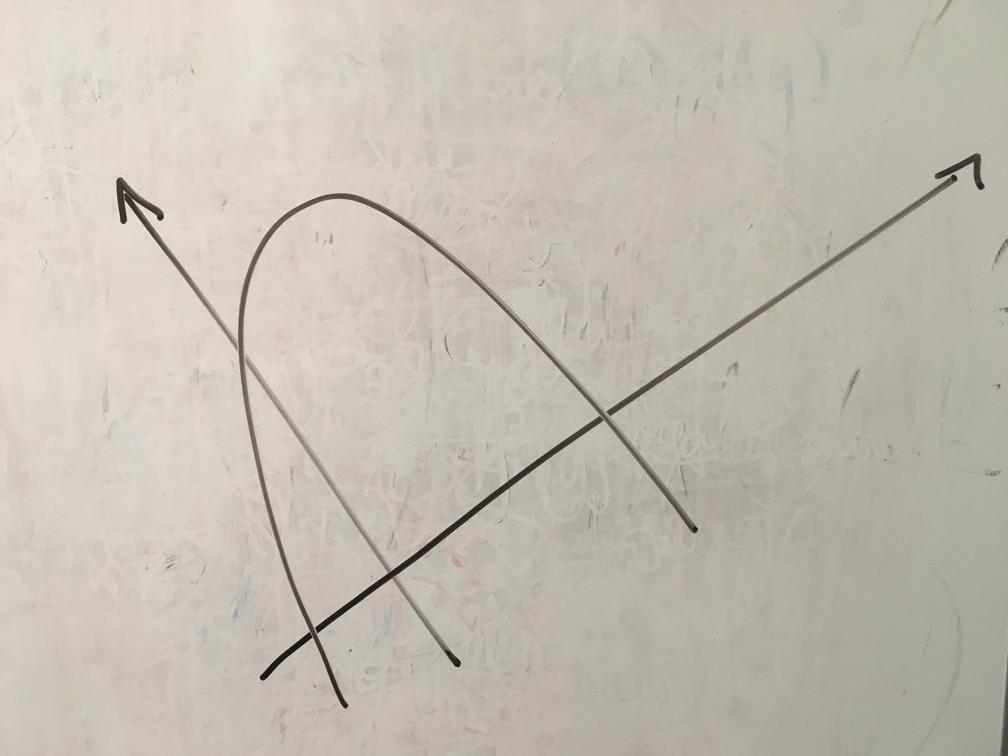
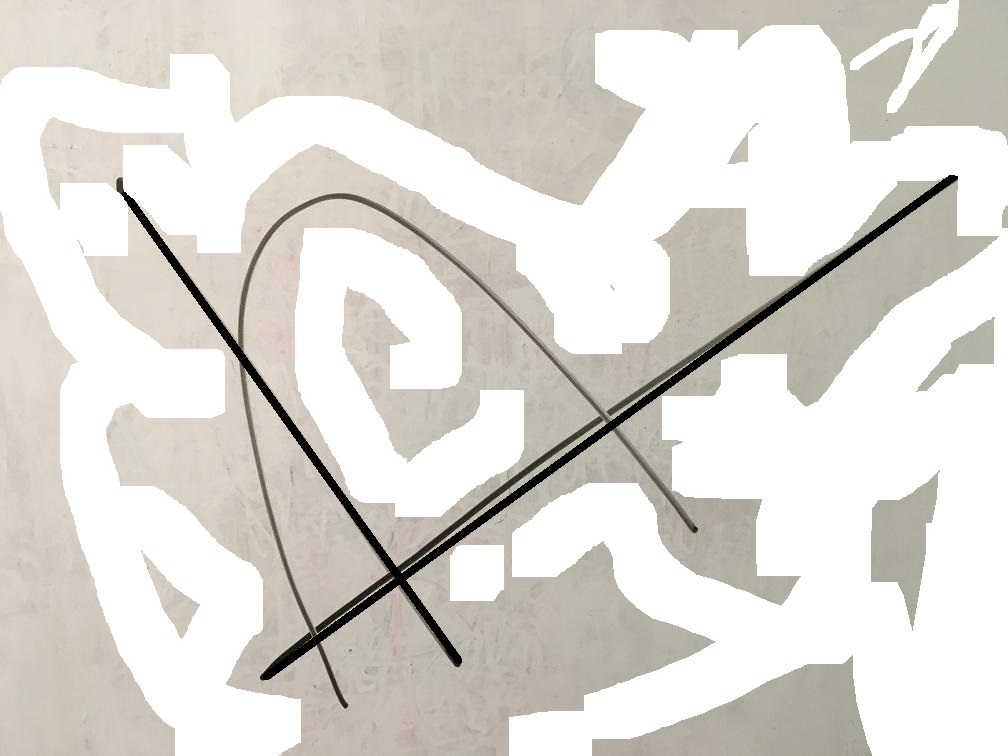
k-aralho

diff --git a/main.py b/main.py
@@ -9,11 +9,64 @@
 import cv2   # biblioteca opencv utilizada para funções de imagem
 import numpy as np  # biblioteca numpy para funções matemáticas, como a SDV
 from include.parabola import Parabola
-import os
+import random
 
 
 def draw_square_at(img, pos, color):
     img[int(pos[1]) - 3:int(pos[1]) + 3, int(pos[0]) - 3:int(pos[0]) + 3] = color
+
+
+def color_dist(v1, v2):
+    return (v1 - v2)**2
+
+
+def kmeans(img):
+    c1, c2 = 0, 255
+    prev_c1 = prev_c2 = -7
+    g1 = []
+    g2 = []
+    g3 = []
+    c3 = 150
+    while c1 != prev_c1 and c2 != prev_c2:
+        g1 = []
+        sum1 = 0
+        count1 = 0
+        g2 = []
+        g3 = []
+        sum2 = 0
+        count2 = 0
+        sum3 = 0
+        count3 = 0
+
+        for i in range(img.shape[0]):
+            for j in range(img.shape[1]):
+                val = img[i, j]
+                dists = [color_dist(val, c) for c in [c1, c2, c3]]
+                if dists[0] < dists[1] and dists[0] < dists[2]:
+                    g1.append((i, j))
+                    sum1 += val
+                    count1 += 1
+                elif dists[1] < dists[0] and dists[1] < dists[2]:
+                    g2.append((i, j))
+                    sum2 += val
+                    count2 += 1
+                else:
+                    g3.append((i, j))
+                    sum3 += val
+                    count3 += 1
+
+        prev_c1 = c1
+        prev_c2 = c2
+        c1 = sum1 / count1
+        c2 = sum2 / count2
+        c3 = sum3 / count3
+
+        print(c1, c2)
+
+    if c1 < c2:
+        return g1, g2, g3
+    else:
+        return g2, g1, g3
 
 
 def intersec(p1, p2, p3, p4):
@@ -45,17 +98,29 @@ def find_endpoints(t):
     return (x1, y1), (x2, y2)
 
 
-def main():
+def main(threshold, nvotes):
     # carregamos a imagem, dimensionamos uma janela para exibí-la
     img = cv2.imread('exemplo1 - Copy.jpg')
     size = (img.shape[1], img.shape[0])
 
-    nvotes = 350
-    threshold = 120
     ekernel_size = (3, 3)
 
     #converte imagem bgr pra grey scale
     grey_img = cv2.cvtColor(img, cv2.COLOR_BGR2GRAY)
+    grey_imgk = cv2.cvtColor(img, cv2.COLOR_BGR2GRAY)
+
+    b, p, r = kmeans(grey_img)
+
+    for p in p:
+        grey_imgk[p] = 0
+    for p in r:
+        grey_imgk[p] = 0
+    for p in b:
+        grey_imgk[p] = 255
+
+    cv2.namedWindow('k means', cv2.WINDOW_NORMAL)
+    cv2.resizeWindow('k means', size[0], size[1])
+    cv2.imshow('k means', grey_imgk)
 
     '''hist = [0 for i in range(255)]
     avg = 0
@@ -73,28 +138,14 @@ def main():
             else:
                 grey_img[j, i] = 0
 
-    cv2.namedWindow('sdsds image', cv2.WINDOW_NORMAL)
-    cv2.resizeWindow('sdsds image', size[0], size[1])
-    cv2.imshow('sdsds image', grey_img)
 
-
-    #tentar fazer uma erosão
-    kernel = np.ones(ekernel_size, np.uint8)
-    grey_img = cv2.erode(grey_img, kernel, iterations=1)
-
-    cv2.namedWindow('sdsds a', cv2.WINDOW_NORMAL)
-    cv2.resizeWindow('sdsds a', size[0], size[1])
-    cv2.imshow('sdsds a', grey_img)
-
-
-
-    #  hough aqui
-    '''lines = cv2.HoughLinesP(grey_img, 1, np.pi/180, 200)
-    for line in lines:
-        x1, y1, x2, y2 = line[0]
-        cv2.line(img, (x1, y1), (x2, y2), (0, 0, 255), 3)'''
+    cv2.namedWindow('thresholding', cv2.WINDOW_NORMAL)
+    cv2.resizeWindow('thresholding', size[0], size[1])
+    cv2.imshow('thresholding', grey_img)
 
     lines = cv2.HoughLines(grey_img, 1, np.pi/180, nvotes)
+
+    return
 
     for line in lines:
         x1, x2 = find_endpoints(line[0])
@@ -109,7 +160,6 @@ def main():
     t2 = lines[0][0][1]
 
     theta_diff = np.abs(t2 - np.pi/2)
-    print('Teta diffffff: ', np.degrees(theta_diff))
 
     sub = np.subtract(x2, x1)
 
@@ -119,53 +169,26 @@ def main():
 
     v2 = [v1[1], -v1[0]]
 
-    print("NORMA DO V2 AQUI OIE", np.linalg.norm(v2))
-
-
     new_x3 = np.add(inter, [v2[0]*-10000, v2[1]*-10000])
     new_x3 = tuple([int(i) for i in new_x3])
     new_x4 = np.add(inter, [v2[0]* 10000, v2[1]* 10000])
     new_x4 = tuple([int(i) for i in new_x4])
 
-
     cv2.line(img, x1, x2, (0, 0, 255), 3)
     cv2.line(img, new_x3, new_x4, (255, 0, 255), 3)
-    cv2.line(grey_img, x1, x2, (0, 0, 0), 40)
-    cv2.line(grey_img, x3, x4, (0, 0, 0), 40)
+    cv2.line(grey_img, x1, x2, (0, 0, 0), 50)
+    cv2.line(grey_img, x3, x4, (0, 0, 0), 50)
 
     draw_square_at(img, inter, [255, 0, 0])
 
+    # tentar fazer uma erosão
+    kernel = np.ones(ekernel_size, np.uint8)
+    grey_img = cv2.erode(grey_img, kernel, iterations=1)
 
     points = [np.array((i, j)) for i in range(size[0]) for j in range(size[1]) if grey_img[j, i] == 255]
     parab = Parabola(points, theta_diff)
 
     parab.draw(img)
-
-
-
-    '''projected_parab =[]
-    matriz_braba = np.array(([v2[1], v1[1]],
-                              [v2[0], v1[0]
-                              ]))
-    matriz_braba_inv = np.linalg.inv(matriz_braba)
-    for p in parab:
-        projected_point = np.matmul(matriz_braba_inv, np.array([p[1], p[0]]))
-        projected_parab.append((int(projected_point[1]), int(projected_point[0])))
-    
-    parab = projected_parab'''
-
-
-
-    #for p in parab:
-    #    draw_square_at(p, [255, 0, 255])
-
-
-    '''for i in range(minparab, maxparab):
-        res = parab_x(i, sol)
-        res_screen = np.matmul(matriz_braba, np.array([res, i]))
-        if res_screen[1] < 0:
-            continue
-        draw_square_at(res_screen, [0, 255, 0])'''
 
     # exibimos a imagem por último para não receber cliques antes de tudo devidamente calculado
     cv2.namedWindow('image', cv2.WINDOW_NORMAL)
@@ -178,11 +201,22 @@ def main():
 
 
 if __name__ == '__main__':
-    main()
+    nvotes = 550
+    threshold = 120
+    main(threshold, nvotes)
     # ficamos em laço esperando o usuário ou fechar a janela ou clicar na imagem (botão esquerdo) para adicionar um jogador
     while 1:
         k = cv2.waitKey(0)
 
-        saida = cv2.destroyAllWindows()
-        if (saida == None):
+        print(k)
+        #saida = cv2.destroyAllWindows()
+        if k == 27:
+            cv2.destroyAllWindows()
             break
+        elif k == 110:
+            nvotes = int(input('Insert new nvotes value:'))
+            main(threshold, nvotes)
+        elif k == 116:
+            threshold = int(input('Insert new threshold value:'))
+            main(threshold, nvotes)
+

diff --git a/include/parabola.py b/include/parabola.py
@@ -1,4 +1,5 @@
 import numpy as np
+import random
 
 
 def draw_square_at(img, pos, color):
@@ -17,7 +18,8 @@ class Parabola:
 
         self.rotate(angle)
         self.thin()
-        self.equation = self.stipulate_equation()
+        #self.equation = self.ransac()
+        self.equation = self.stipulate_equation(self.points)
         self.points = self.stipulate_parabola()
         self.rotate(-angle)
 
@@ -39,20 +41,26 @@ class Parabola:
 
         return stip_parab
 
-    def stipulate_equation(self):
-        a_size = (len(self.points), 3)
-        b_size = (len(self.points), 1)
+    def ransac(self):
+        maybe_ins = random.choices(self.points, k=3)
+        maybe_parab = self.stipulate_equation(maybe_ins)
+
+        return maybe_parab
+
+    def stipulate_equation(self, points):
+        a_size = (len(points), 3)
+        b_size = (len(points), 1)
 
         a_matrix = np.zeros(a_size)
         b_matrix = np.zeros(b_size)
 
         for i in range(a_size[0]):
-            a_matrix[i, 0] = self.points[i][0] ** 2
-            a_matrix[i, 1] = self.points[i][0]
+            a_matrix[i, 0] = points[i][0] ** 2
+            a_matrix[i, 1] = points[i][0]
             a_matrix[i, 2] = 1
 
         for i in range(b_size[0]):
-            b_matrix[i] = self.points[i][1]
+            b_matrix[i] = points[i][1]
 
         ata = np.matmul(np.transpose(a_matrix), a_matrix)
         atb = np.matmul(np.transpose(a_matrix), b_matrix)
